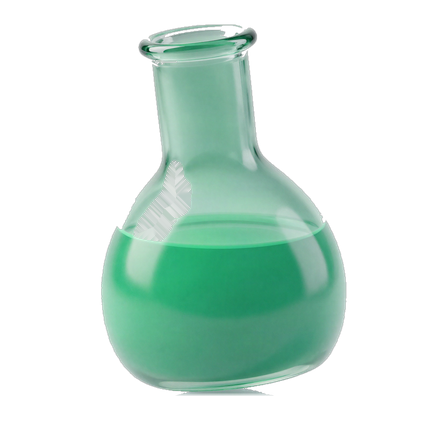
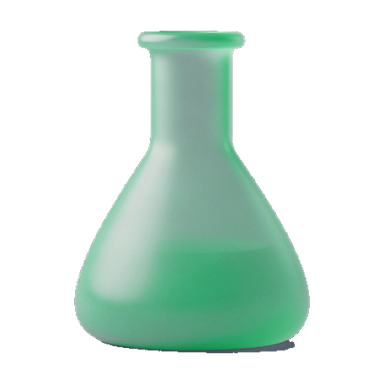
Nova sada ikon predmetu a nazev webu bez informatiky
Sedm ikon predmetu prekresleno do jednotneho stylu podle ikon
informatiky: matne mlecne sklo, cely predmet natoceny k divakovi,
zadne podstavy. Fyzika ma misto magnetu zarovku, strojirenstvi
misto ozubeneho kola motor. Odstiny a sytost srovnany napric sadou,
aby zadna ikona nevyskakovala.

Nazev webu uz neslibuje jen informatiku - titulek stranky, OG i
Twitter karta a odznak v uvodu mluvi o materialech do vyuky.

Changed region(s): [[0.1875, 0.0312, 0.8125, 0.9375]]

diff --git a/src/app/layout.tsx b/src/app/layout.tsx
@@ -15,11 +15,11 @@ const display = Space_Grotesk({
 export const metadata: Metadata = {
   metadataBase: new URL(SITE.url),
   title: {
-    default: "Materiály pro výuku informatiky – Karel Hlas",
+    default: "Materiály do výuky – Karel Hlas",
     template: "%s – Karel Hlas",
   },
   description:
-    "Hotové materiály do hodin informatiky ke stažení a úpravě – pracovní listy, testy, plány hodin a metodika (Excel, Word, Python, Power BI). Připravuje Karel Hlas, učitel na SPŠ Tábor.",
+    "Hotové materiály do hodin ke stažení a úpravě – pracovní listy, testy, plány hodin a metodika (Excel, Word, Python, Power BI). Vznikly v informatice, použitelné i v dalších předmětech. Připravuje Karel Hlas, učitel na SPŠ Tábor.",
   keywords: [
     "Karel Hlas",
     "učitel informatiky",
@@ -38,9 +38,9 @@ export const metadata: Metadata = {
     languages: { cs: "/", en: "/en", "x-default": "/" },
   },
   openGraph: {
-    title: "Materiály pro výuku informatiky – Karel Hlas",
+    title: "Materiály do výuky – Karel Hlas",
     description:
-      "Hotové materiály do hodin informatiky ke stažení a úpravě – pracovní listy, testy, plány hodin a metodika (Excel, Word, Python, Power BI).",
+      "Hotové materiály do hodin ke stažení a úpravě – pracovní listy, testy, plány hodin a metodika (Excel, Word, Python, Power BI).",
     url: SITE.url,
     siteName: "Karel Hlas",
     locale: "cs_CZ",
@@ -49,9 +49,9 @@ export const metadata: Metadata = {
   },
   twitter: {
     card: "summary_large_image",
-    title: "Materiály pro výuku informatiky – Karel Hlas",
+    title: "Materiály do výuky – Karel Hlas",
     description:
-      "Hotové materiály do hodin informatiky ke stažení a úpravě (Excel, Word, Python, Power BI).",
+      "Hotové materiály do hodin ke stažení a úpravě (Excel, Word, Python, Power BI).",
     // Obrázek generuje src/app/twitter-image.tsx (next/og).
   },
   robots: {

diff --git a/src/lib/content.ts b/src/lib/content.ts
@@ -1108,7 +1108,7 @@ export const t: Record<Lang, Dict> = {
       brandSub: "Karel Hlas · SPŠ Tábor",
     },
     hero: {
-      badge: "Materiály pro výuku informatiky · zdarma",
+      badge: "Materiály do výuky · zdarma",
       headline: "Hotové materiály nejen do informatiky",
       role: "Učitel informatiky a angličtiny",
       tagline:
@@ -1379,7 +1379,7 @@ export const t: Record<Lang, Dict> = {
       brandSub: "Karel Hlas · SPŠ Tábor",
     },
     hero: {
-      badge: "Materials for CS teaching · free",
+      badge: "Teaching materials · free",
       headline: "Ready-made materials, not just for CS",
       role: "Computer Science & English Language Teacher",
       tagline:
